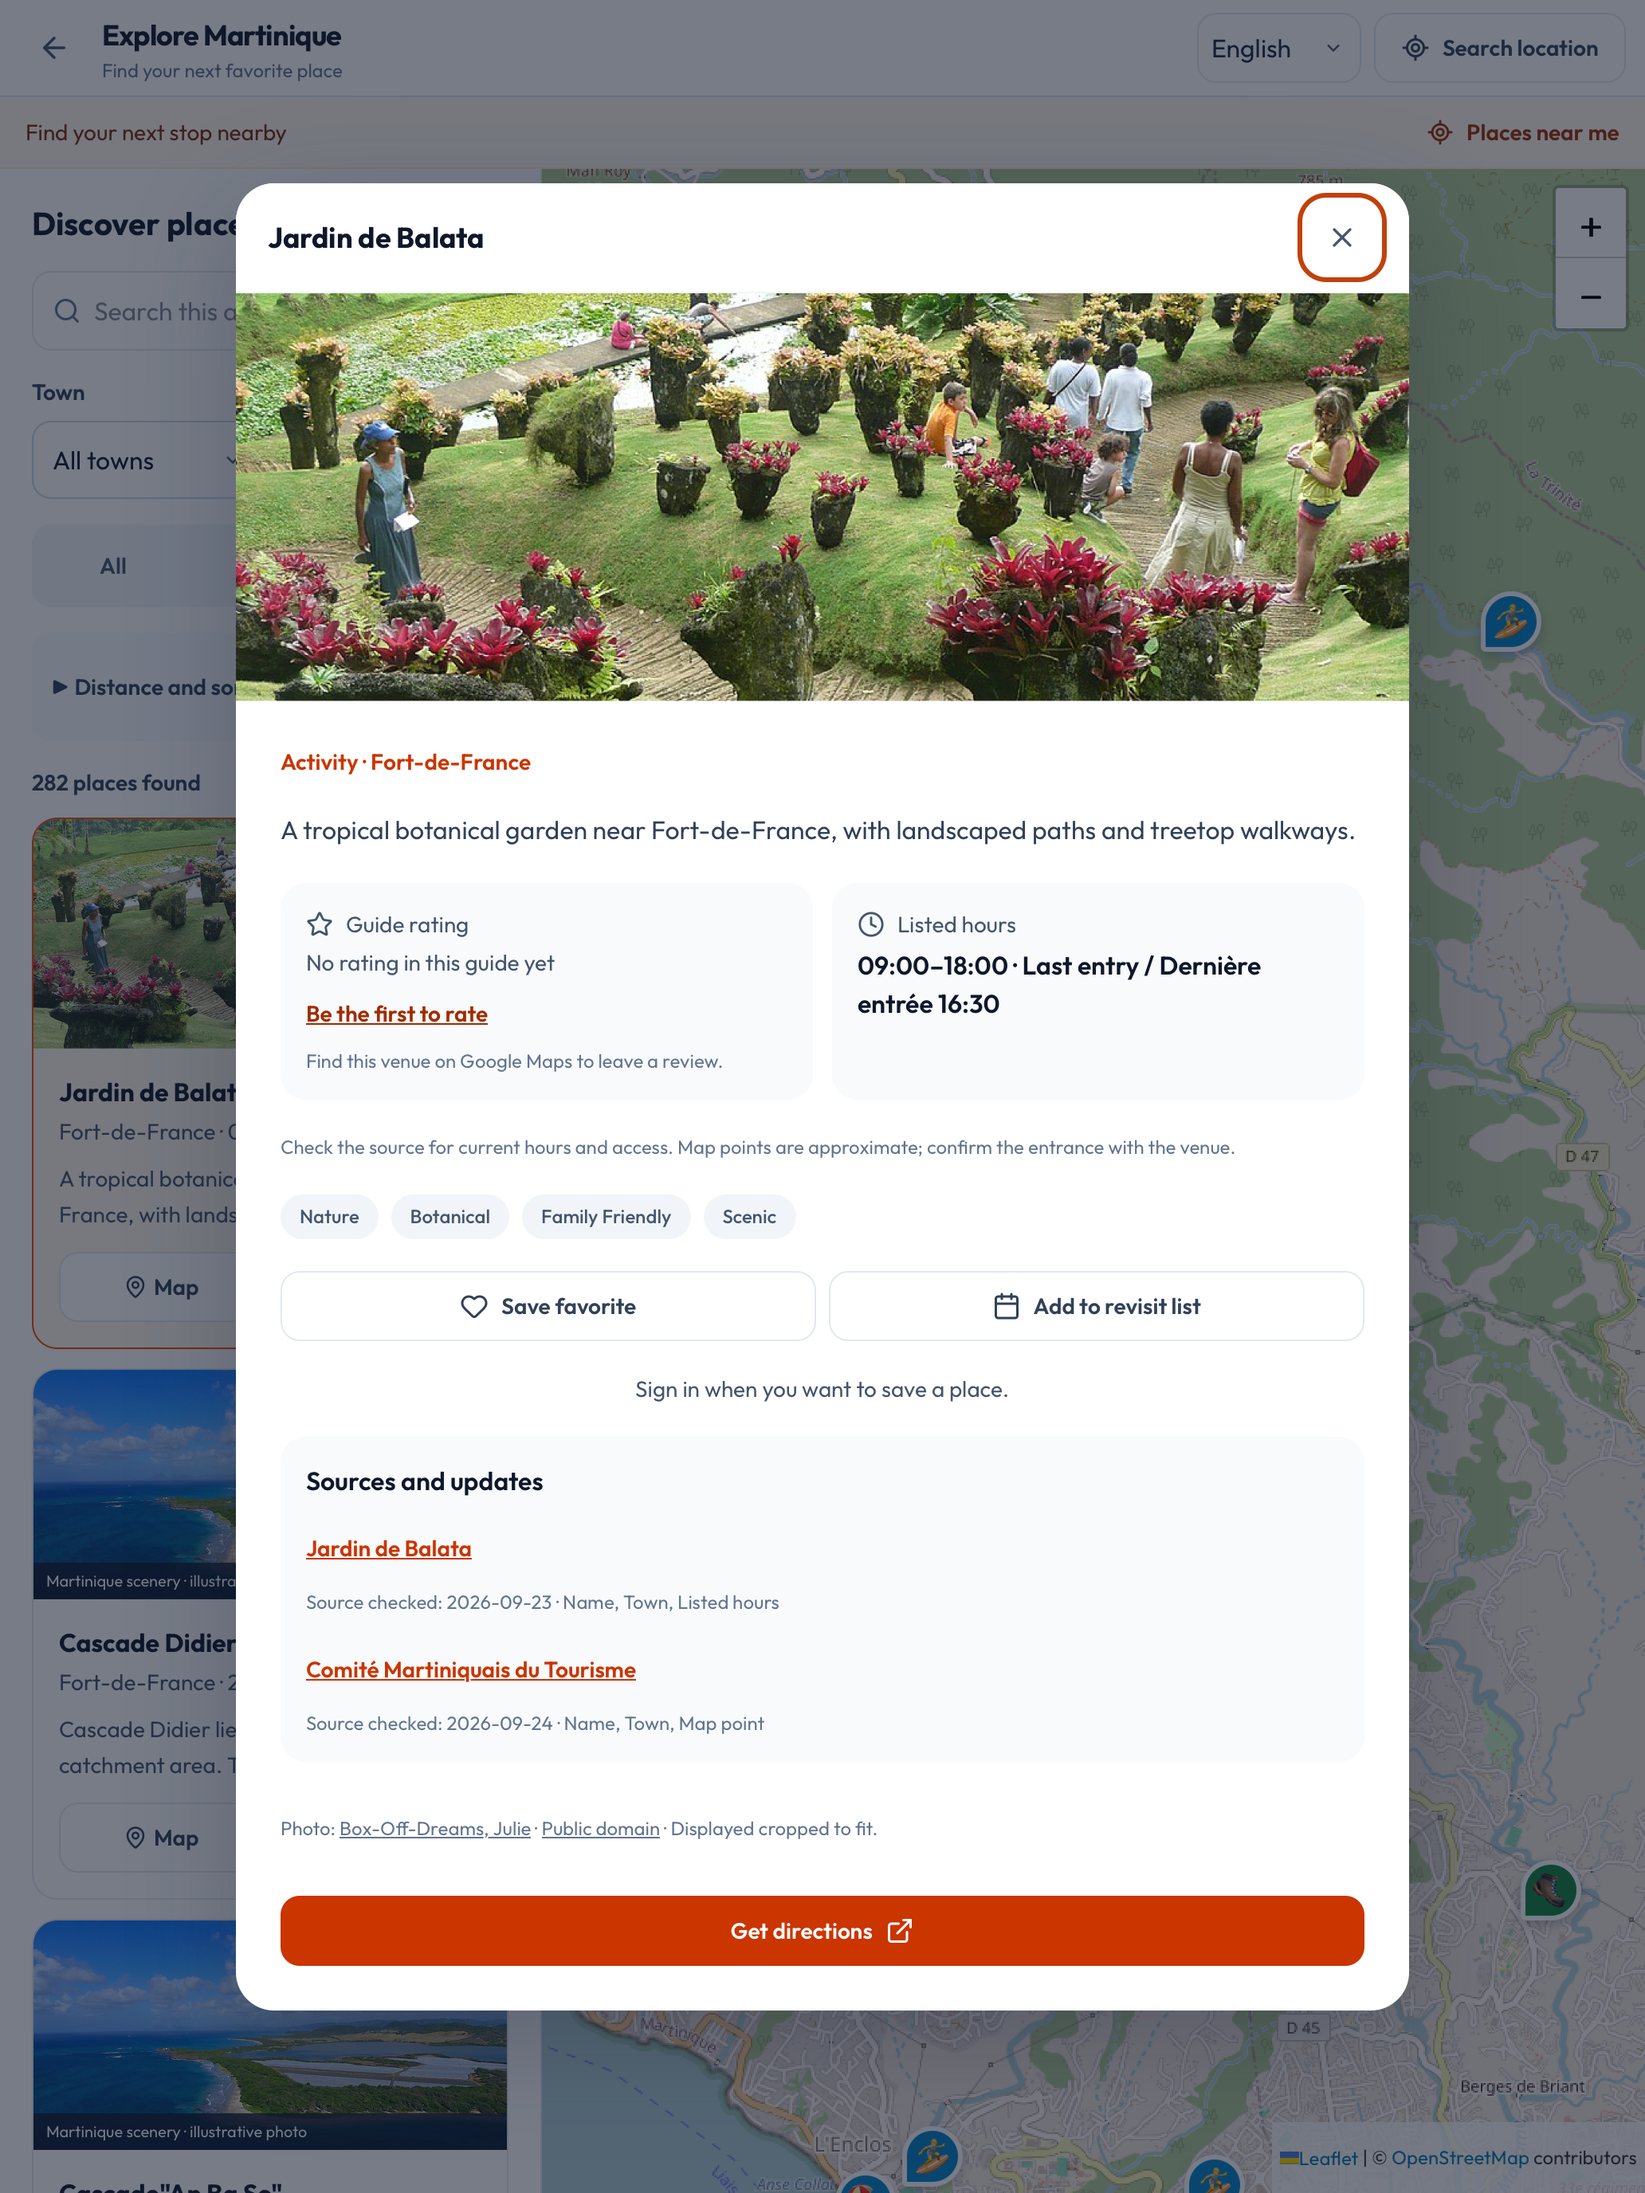
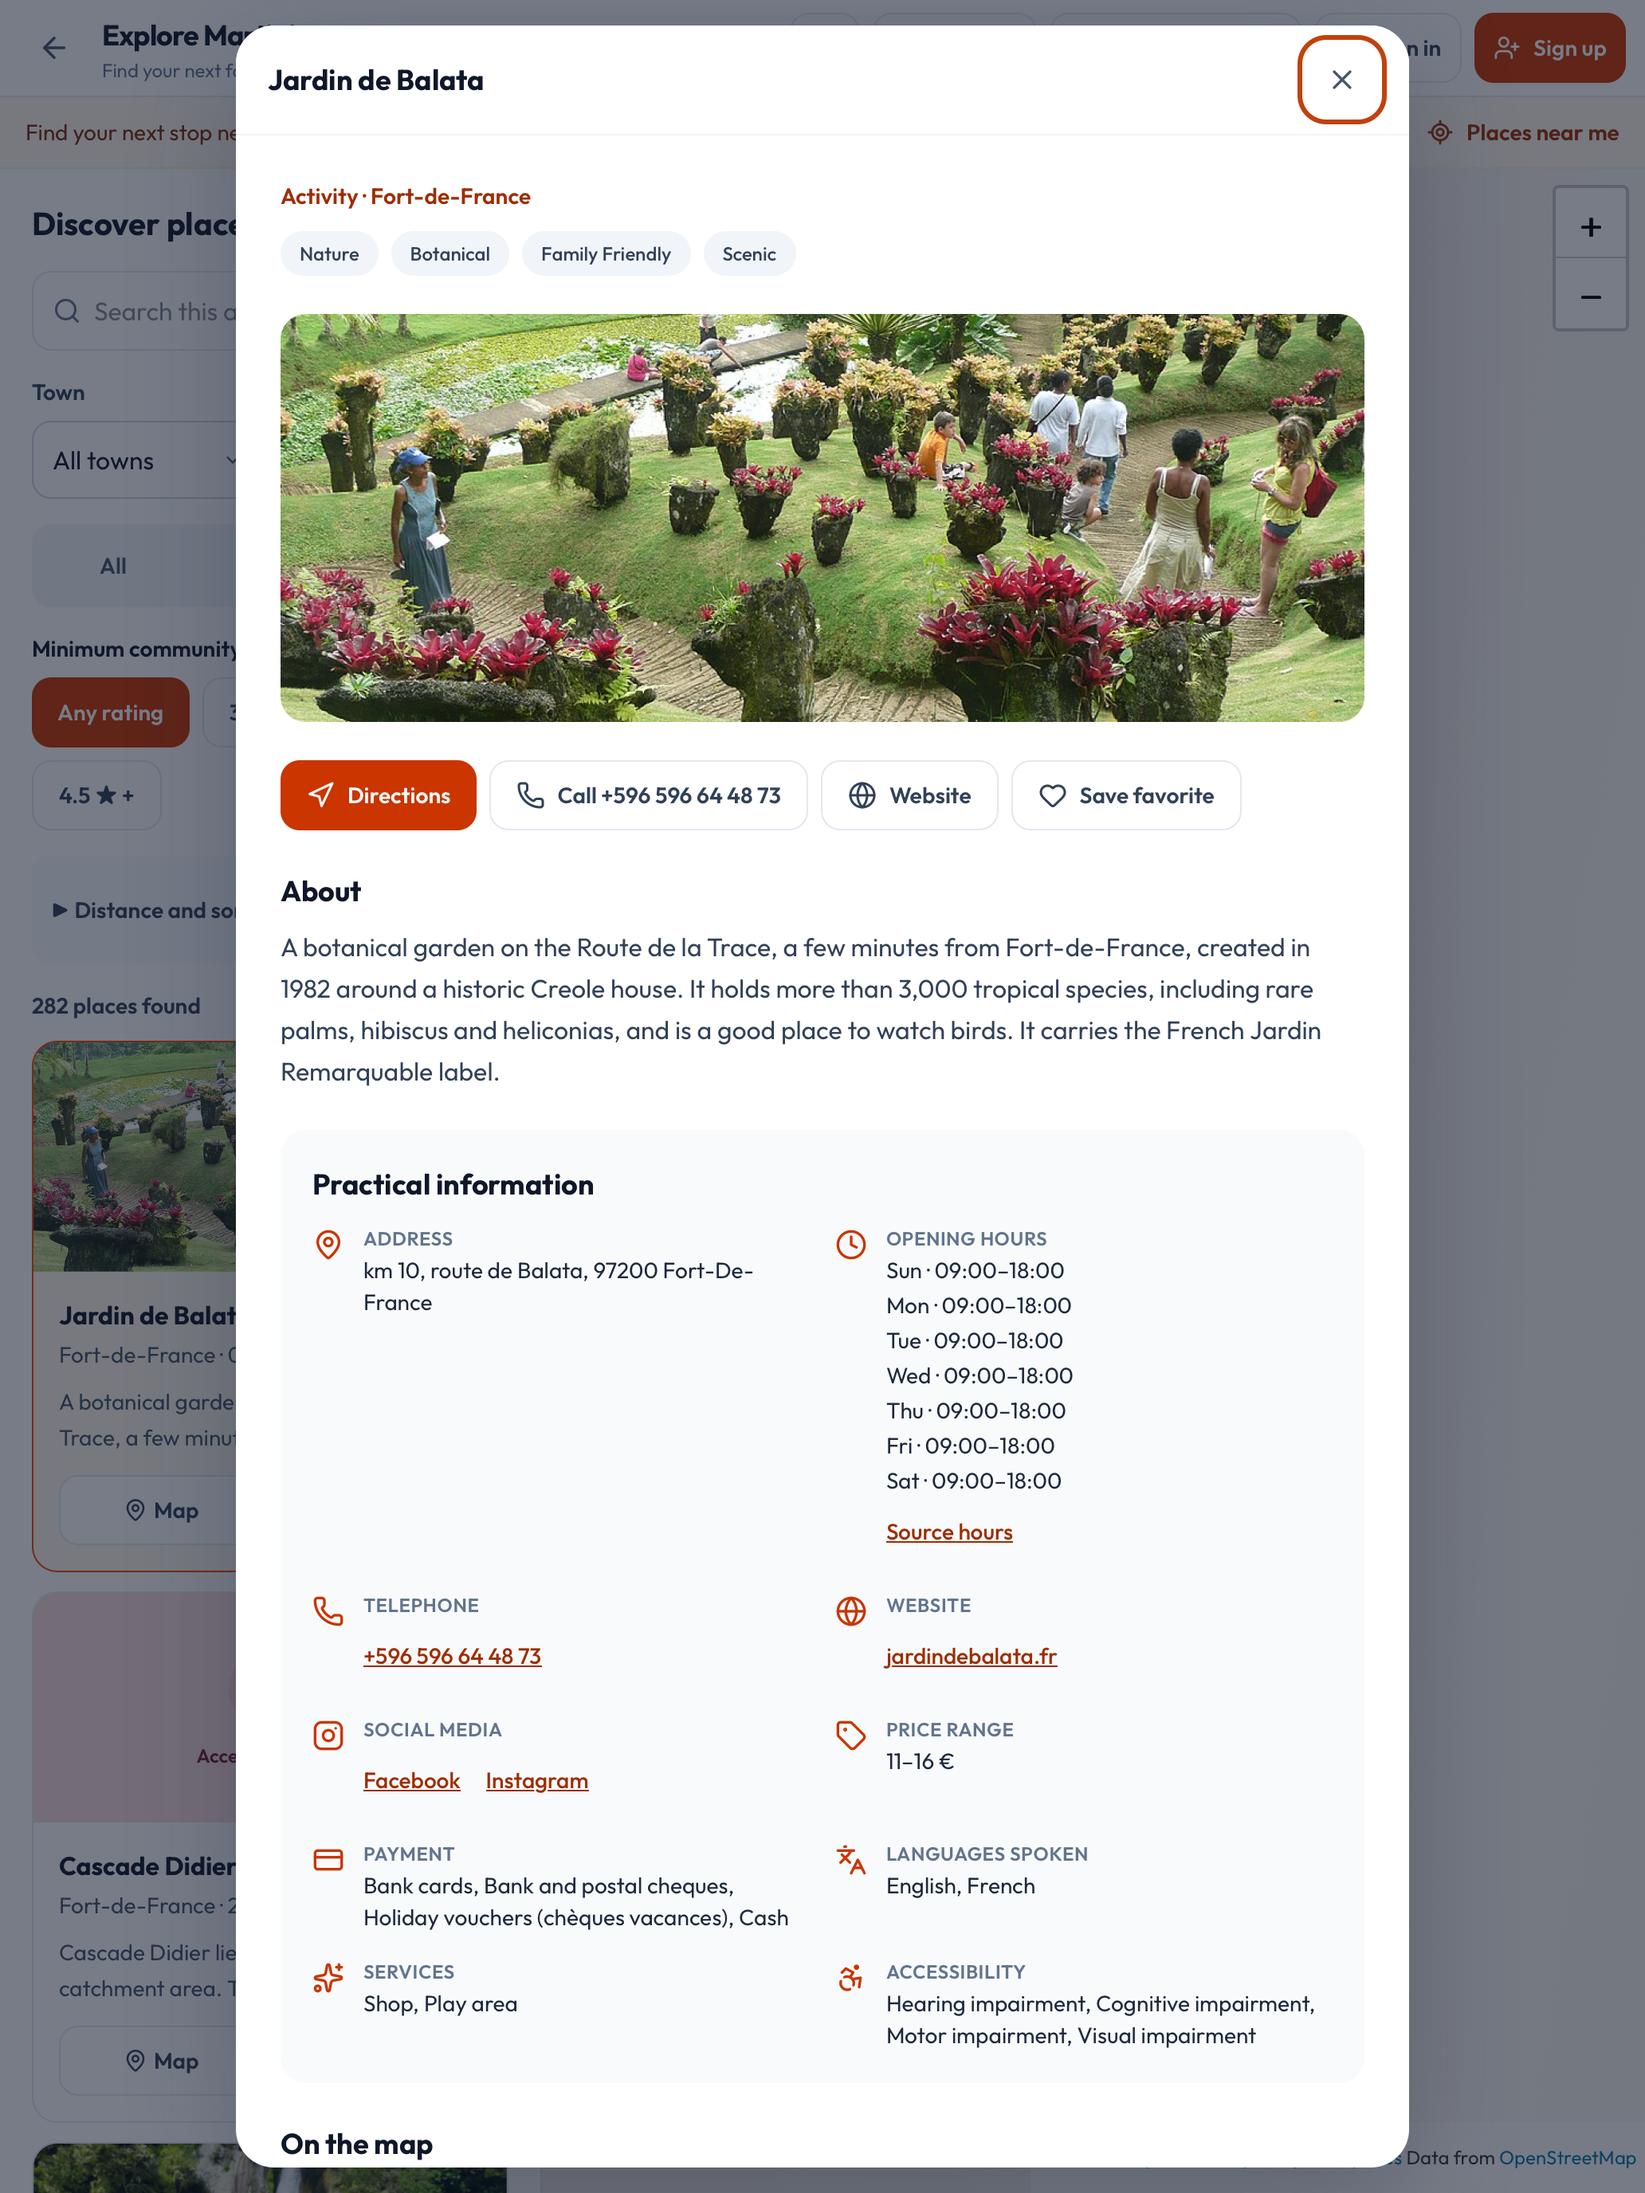
chore(store): recapture the 18 store previews with the current interface

diff --git a/native-assets/store/README.md b/native-assets/store/README.md
@@ -19,6 +19,6 @@ Each locale/device has Discover, Place details and Day planner captures. These s
 
 Regenerate artwork with `npm run store:assets`. For screenshots, start the isolated Laravel preview (`node --import tsx tests/support/start-laravel.ts` after `npm run build:web`), then run `npm run store:screenshots` in another terminal. The capture script accepts only a local origin (`SCREENSHOT_ORIGIN`, default `http://127.0.0.1:3100`). It does not sign in, create public accounts or submit suggestions.
 
-The feature/share artwork uses the public-domain Jardin de Balata photograph by Box-Off-Dreams, Julie, cropped for layout. Screenshot photographs retain their original credits: Habitation Clément by Jeremy Gross (CC BY-SA 3.0), Jardin de Balata (public domain), and Étang des Salines by Hervé NICOLAS (CC BY-SA 4.0). See [photo credits](../../public/photos/CREDITS.md), preserve attribution when distributing screenshots, and apply the relevant share-alike license to adapted photograph content.
+The feature/share artwork uses the public-domain Jardin de Balata photograph by Box-Off-Dreams, Julie, cropped for layout. Photographs that appear in the screenshots keep their original credits, for example Habitation Clément by Jeremy Gross (CC BY-SA 3.0) and Jardin de Balata (public domain). See [photo credits](../../public/photos/CREDITS.md), preserve attribution when distributing screenshots, and apply the relevant share-alike license to adapted photograph content.
 
-The policy/support URLs assume the Laravel release is deployed at `https://mada-tours.vercel.app`; verify or update them before uploading. Actual release still needs an owned bundle ID, developer signing, native binaries, device QA and store submission. See [mobile](../../docs/MOBILE.md). The captures predate the October 2026 photo library and admin dashboard, so retake them before submission.
+The policy/support URLs assume the Laravel release is deployed at `https://mada-tours.vercel.app`; verify or update them before uploading. Actual release still needs an owned bundle ID, developer signing, native binaries, device QA and store submission. See [mobile](../../docs/MOBILE.md). The previews were last captured on 15 October 2026.
